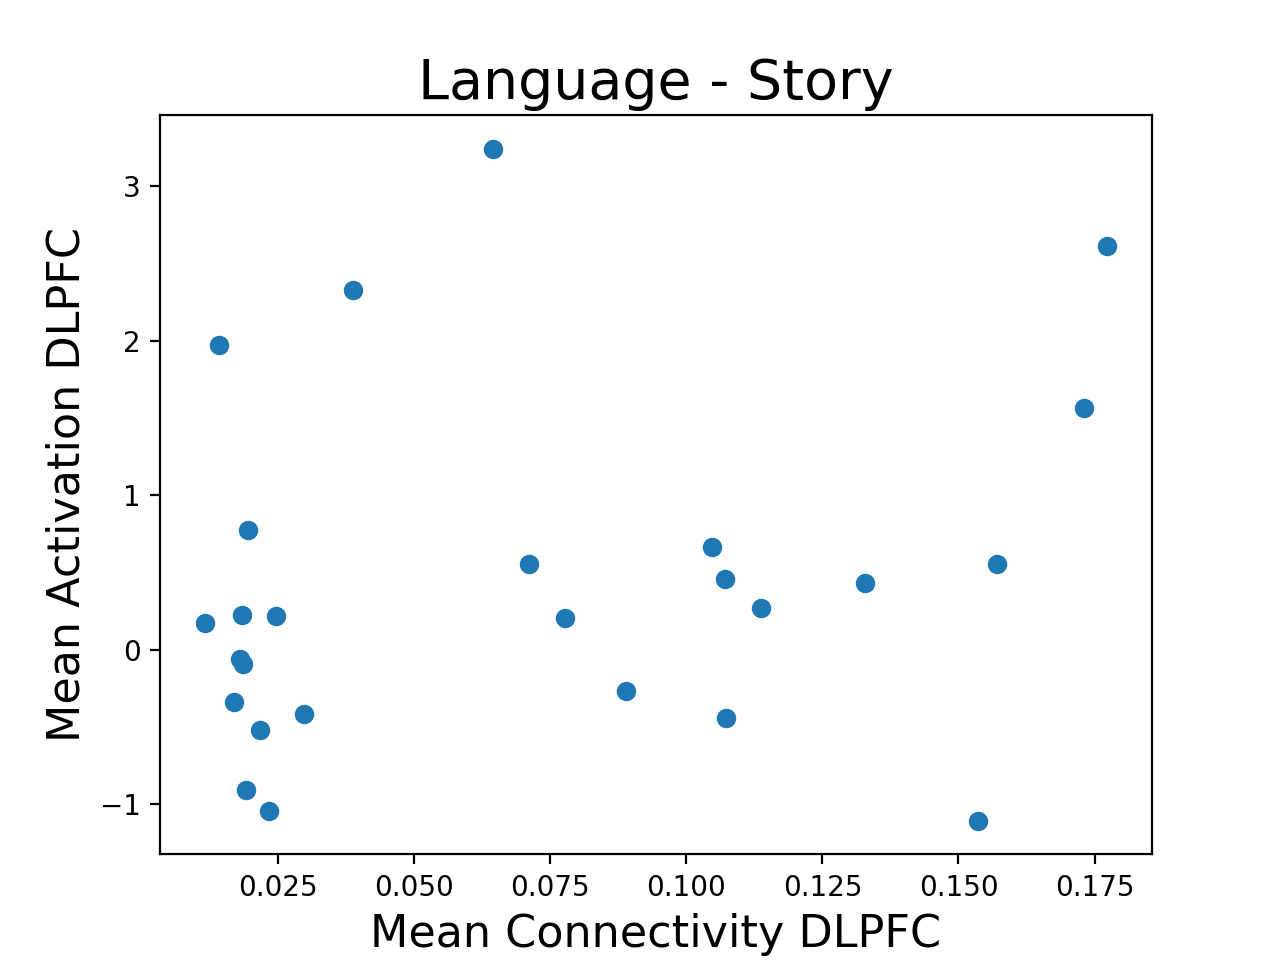
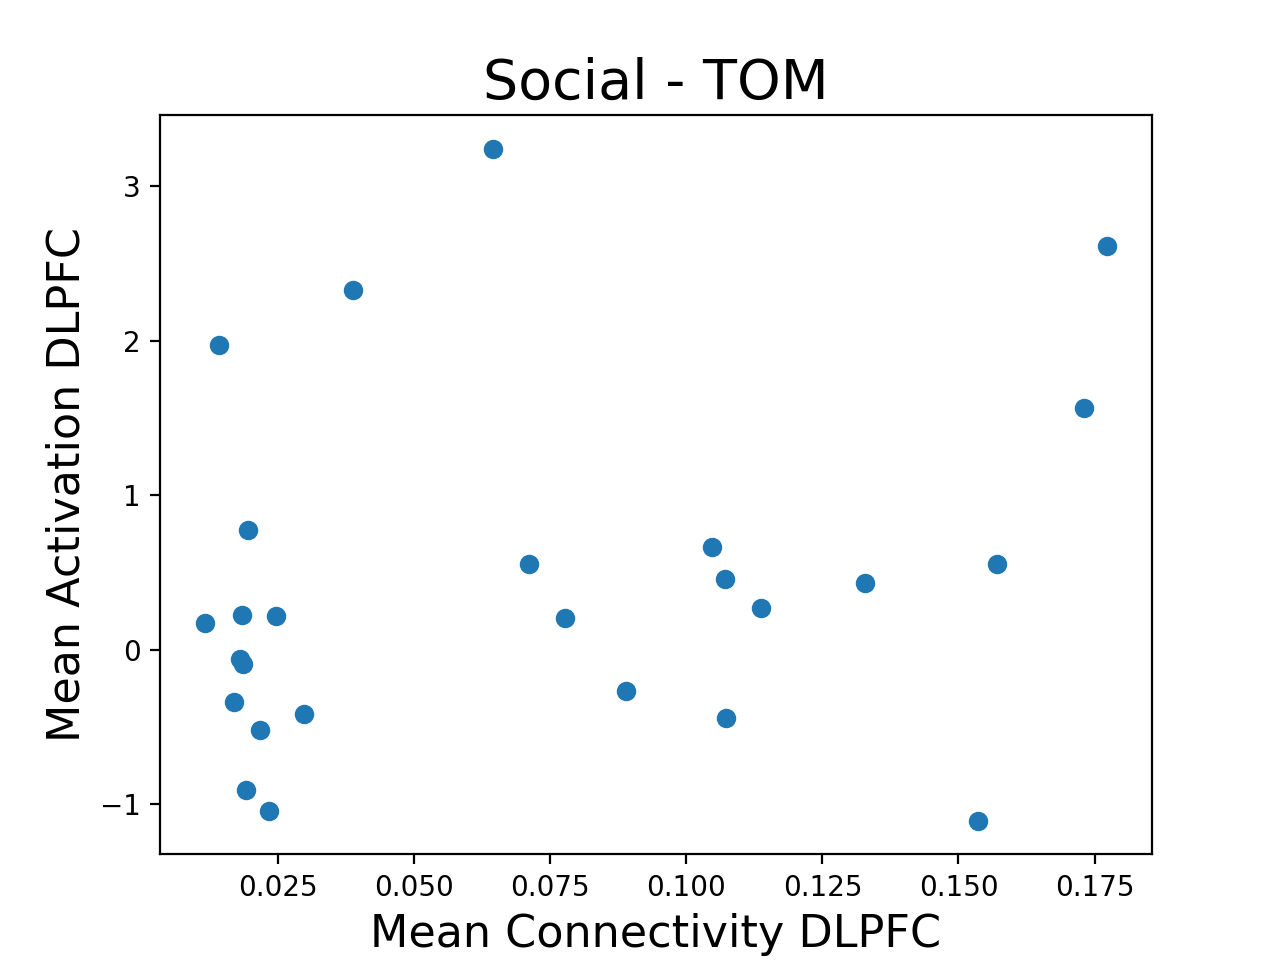
new plots

Changed region(s): [[0.3125, 0.0625, 0.7188, 0.125]]

diff --git a/pool_sub.py b/pool_sub.py
@@ -115,7 +115,7 @@ a = mean_act_DLPF[30,:]
 ax = plt.scatter(mean_conn_DLPF_335, mean_act_DLPF[26,:])
 plt.xlabel("Mean Connectivity DLPFC", fontsize=16)
 plt.ylabel("Mean Activation DLPFC", fontsize=16)
-plt.title('Language - Story', fontsize=20)
+plt.title('Social - TOM', fontsize=20)
 outFileplotConAct = ("social-tom.png")
 plt.savefig(("plot_social.png"), dpi=200)
 #print(("Figure saved as {0}".format(outFileplotConAct)))
@@ -132,7 +132,7 @@ a = mean_act_DLPF[30,:]
 ax = plt.scatter(mean_conn_DLPF_201, mean_act_DLPF[26,:])
 plt.xlabel("Mean Connectivity DLPFC", fontsize=16)
 plt.ylabel("Mean Activation DLPFC", fontsize=16)
-plt.title('Language - Story', fontsize=20)
+plt.title('Working memory - 2-back', fontsize=20)
 outFileplotConAct = ("wm_2bk.png")
 plt.savefig(("plot_wk.png"), dpi=200)
 #print(("Figure saved as {0}".format(outFileplotConAct)))
